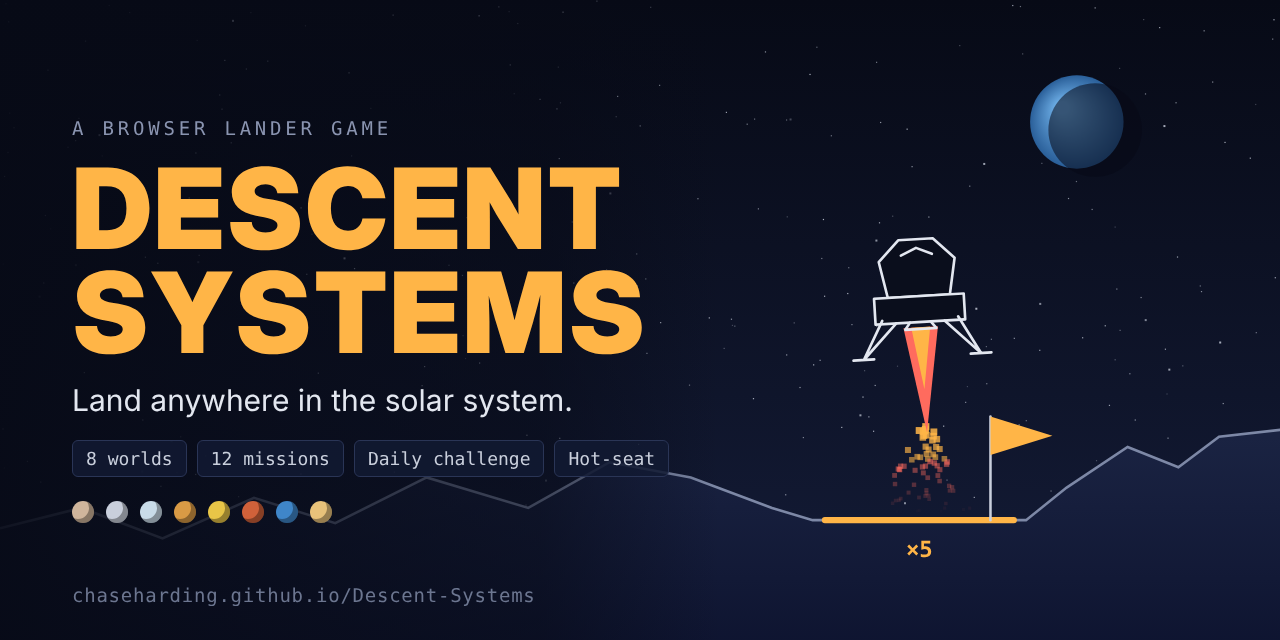
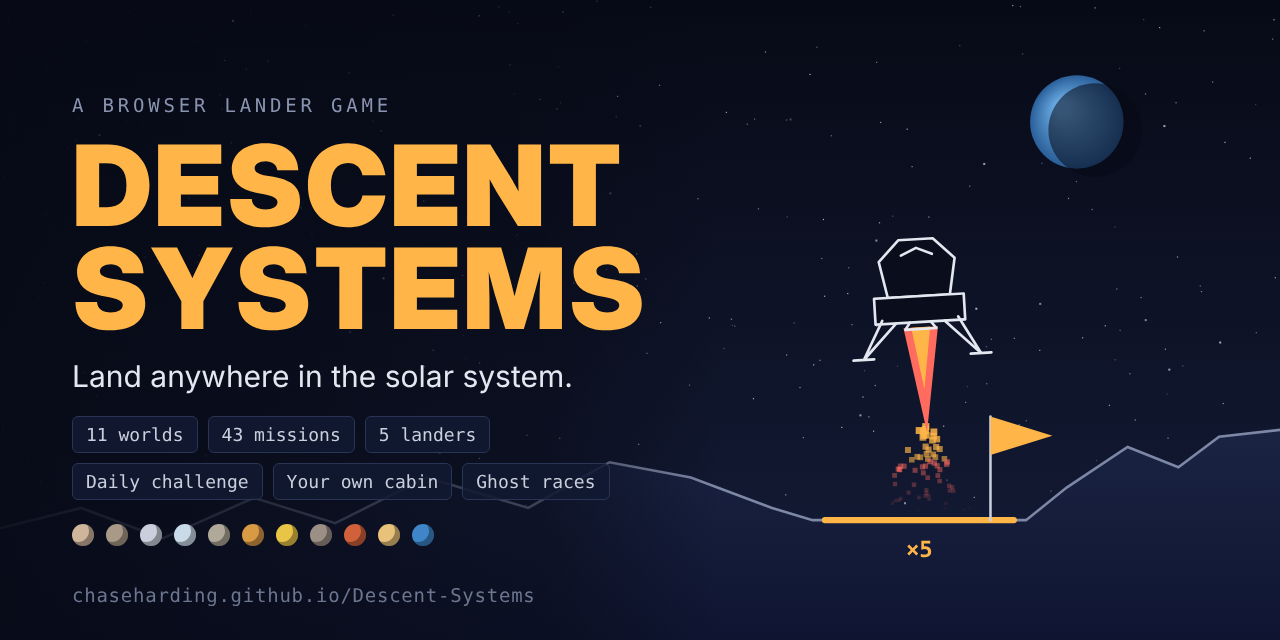
updated readme

Changed region(s): [[0.0312, 0.1562, 0.5312, 0.875]]

diff --git a/README.md b/README.md
@@ -20,8 +20,8 @@ The whole game is a single `index.html` file: plain HTML, CSS and JavaScript on 
 - **Five landers** that fly differently: Biscuit the all-rounder, Rex's fast and thirsty Apex Vector, Wren's slow, steady Lark, Dottie's Workhorse cargo hauler and Whisker, the twitchy little lander Gus built for Apogee. Each keeps its own paint, flame and flag
 - **Credits and a hangar** where you spend your banked points on hull finishes and engine flames
 - **Gus's workshop**: upgrades for a bigger fuel tank, a more efficient engine, softer landing struts and a landing radar that shows where you'll touch down
-- **Mission campaign**: 18 hand-built missions in two acts, with precision landings, cargo runs, canyon flying and rescues, each rated 1–3 stars, plus a story told over the radio by a small pixel-art cast
-- **Side missions**: thirteen optional jobs from the crew, each with its own twist: fragile cargo, a coffee countdown, a cat passenger, a survey route through the clouds of Venus, melting ice cream on Mercury, skipping across an asteroid, a blind landing in a magnetic storm, landing on a moving rover, flying a telescope on a swinging cable, landing through a meteor shower, a pad-hopping race against a rival, aurora photography and shadow hopping on Mercury
+- **Mission campaign**: 26 hand-built missions in three acts, with precision landings, cargo runs, canyon flying and rescues, each rated 1–3 stars, plus a story told over the radio by a small pixel-art cast
+- **Side missions**: seventeen optional jobs from the crew, each with its own twist: fragile cargo, a coffee countdown, a cat passenger, a survey route through the clouds of Venus, melting ice cream on Mercury, skipping across an asteroid, a blind landing in a magnetic storm, landing on a moving rover, flying a telescope on a swinging cable, landing through a meteor shower, a pad-hopping race against a rival, aurora photography and shadow hopping on Mercury
 - **Break room**: hang out with the crew between flights. They chat about how your career is going, and Apogee the cat naps somewhere new every visit. It also holds a bulletin board, a postcard album and Biscuit's maintenance log
 - **The Pad**: your own cozy spaceship cabin. Tap any spot in the room to decorate it with posters, shelf trinkets, desk gadgets, rugs, bedding, wall finishes, flooring, glowing light strips and the view out the big window
 - **Endless run**: one lander, random worlds, fuel that carries over, and a perk from Gus after every landing
@@ -32,7 +32,7 @@ The whole game is a single `index.html` file: plain HTML, CSS and JavaScript on 
 - **Generated music**: slow, drifting pads on the menus, a cozy swung track in the break room, and flight music that speeds up and builds as you get closer to the ground. It's all composed in code as you play
 - **Daily challenge**: the same world and terrain for every pilot each day, with a shareable result
 - **Crew requests**: three small jobs from the crew every day, like soft landings, ×5 pads, rovers or petting Apogee, each paying credits, with a bonus for finishing all three
-- **35 badges** to earn, 26 of which unlock exclusive cosmetics
+- **36 badges** to earn, 27 of which unlock exclusive cosmetics
 - **Pause** with P or Esc, and automatic pausing when you switch tabs
 - **Touch controls** on phones and tablets
 - **Saved progress** for best scores, credits and unlocks, kept in your browser
@@ -169,7 +169,7 @@ Badge rewards (Grand Tour, Champion, Pathfinder, Spa Day, Wren's Original and mo
 
 ## Missions
 
-Open **Missions** from the start screen. The campaign has 18 hand-built missions in two acts, and finishing one unlocks the next. Act 2 opens once you finish Last Light.
+Open **Missions** from the start screen. The campaign has 26 hand-built missions in three acts, and finishing one unlocks the next. Act 2 opens once you finish Last Light, and Act 3 once you finish Sunrise.
 
 **Act 1 · The Signal**
 
@@ -199,16 +199,29 @@ Open **Missions** from the start screen. The campaign has 18 hand-built missions
 | 17 | Spare Key | Mercury | Precision |
 | 18 | Sunrise | Mercury | Rescue, against the clock |
 
+**Act 3 · Beyond Pluto**
+
+| # | Mission | World | Type |
+|---|---|---|---|
+| 19 | Big Ear | Pluto | Sling load |
+| 20 | Triangulation | Moon | Pad hopping |
+| 21 | Echo | Europa | Precision, through a geyser field |
+| 22 | Interference | Io | Cargo, between lava eruptions |
+| 23 | Cloud Relay | Venus | Relay route through the clouds |
+| 24 | Old Station | Titan | Canyon |
+| 25 | Rex's Shortcut | Vesta | Rescue |
+| 26 | Unit Zero | Pluto | Canyon (finale) |
+
 - **Precision:** land on the marked pad, LZ.
 - **Cargo:** land on PICKUP and hold still while the crate loads, then fly it to DROP. The crate makes the lander heavier and slower to turn.
 - **Canyon:** fly beneath rock overhangs to reach the pad. Touching the rock overhead is a crash.
 - **Rescue:** land on CREW and hold still while they board, then climb out of the top of the screen to reach orbit.
-- **Pad hopping** (side missions): touch down safely on numbered pads in order.
-- **Sling load** (side missions): the cargo hangs on a cable below the lander and swings with momentum, and its pull tugs the lander around. Don't drag it into the ground, and lower it gently onto DROP. While it's hanging, the altitude readout shows the load's height.
+- **Pad hopping:** touch down safely on numbered pads in order.
+- **Sling load:** the cargo hangs on a cable below the lander and swings with momentum, and its pull tugs the lander around. Don't drag it into the ground, and lower it gently onto DROP. While it's hanging, the altitude readout shows the load's height.
 
 <p align="center"><img src="media/missions.png" alt="The mission select screen: twelve campaign missions with their star ratings, and a row of side missions from the crew, each tile showing the crew member who gave it" width="560"></p>
 
-The campaign tells a story over the radio. You fly for Descent Systems, the smallest landing agency in the solar system, alongside Flight Director Dottie Reyes and engineer Gus, who named the lander Biscuit. In Act 1, a mysterious signal on Biscuit's old call sign leads from the Moon across Titan and Mars to Earth. In Act 2, the newly funded agency takes on its first real contracts on Vesta, Ganymede and Mercury, crosses paths with Rex Valor, a smug rival pilot from Apex Aerospace, and races a Mercury sunrise to rescue one of its own. Each character has a pixel-art portrait that talks as their lines type out. Short radio scenes play before each mission (replay them anytime with **Radio log**), mission control reacts to how you flew, and finishing each act unlocks an epilogue. Story scenes can be turned off in Settings.
+The campaign tells a story over the radio. You fly for Descent Systems, the smallest landing agency in the solar system, alongside Flight Director Dottie Reyes and engineer Gus, who named the lander Biscuit. In Act 1, a mysterious signal on Biscuit's old call sign leads from the Moon across Titan and Mars to Earth. In Act 2, the newly funded agency takes on its first real contracts on Vesta, Ganymede and Mercury, crosses paths with Rex Valor, a smug rival pilot from Apex Aerospace, and races a Mercury sunrise to rescue one of its own. In Act 3, a new signal turns up: four beeps and a pause, from somewhere past Pluto. The crew chase it with a listening dish on Pluto, beacons on the Moon, a hydrophone under Europa's geysers, a noise filter through Io's eruptions, a cloud relay on Venus and Wren's old weather station on Titan, rescue Rex (again) on Vesta, and finally land at the bottom of a canyon on Pluto's far side to find what's been calling. It ends on a cliffhanger, and Act 4 is on its way. Each character has a pixel-art portrait that talks as their lines type out. Short radio scenes play before each mission (replay them anytime with **Radio log**), mission control reacts to how you flew, and finishing each act unlocks an epilogue. Story scenes can be turned off in Settings.
 
 ![Meet the crew: Dottie Reyes, flight director; Gus Tran, engineering; Wren Aldana, founder](media/crew.png)
 
@@ -233,6 +246,10 @@ Below the campaign is a row of optional side missions. Each one is a favor for s
 | Hopscotch | Rex | Vesta | Edge of the World | Pad hopping: touch down on pads 1, 2 and 3 in order, and try to beat Rex's 90 seconds |
 | Northern Lights | Dottie | Ganymede | Relay Run | Photo route: fly through three markers up in the aurora, then land |
 | Shadow Hopper | Wren | Mercury | Spare Key | Pad hopping: hop between three pads in the shadows while the sun boils your fuel |
+| Polka Radio | Gus | Moon | Triangulation | Broadcast route: fly through three markers to switch on Gus's all-polka radio station, then land |
+| Geyser Surfing | Rex | Europa | Echo | Pad hopping between erupting geysers, and try to beat Rex's 75 seconds |
+| Catnip Run | Dottie | Titan | Old Station | Fragile cargo: Titan catnip for Apogee. Touch down slower than 1.3 m/s with it aboard |
+| Meteor Watch | Wren | Mercury | Rex's Shortcut | Meteor shower over Mercury: get to the shade by the LZ while the meteors fall |
 
 Side missions pay their own credits and have their own stars, but they don't count toward the campaign badges.
 
@@ -242,7 +259,7 @@ You can set down safely on any pad and lift off again. Each mission awards up to
 
 ## Badges
 
-Open **Badges** from the start screen to see your progress. Twenty-six badges unlock exclusive cosmetics that can't be bought:
+Open **Badges** from the start screen to see your progress. Twenty-seven badges unlock exclusive cosmetics that can't be bought:
 
 | Badge | How to earn it | Reward |
 |---|---|---|
@@ -265,6 +282,7 @@ Open **Badges** from the start screen to see your progress. Twenty-six badges un
 | Star collector | Earn 24 mission stars | Comet Tail flame |
 | Flawless | Earn all 36 stars in Act 1 | Mission Patch flag |
 | Frontier hero | Finish Act 2: New Frontiers | Apex Gold hull |
+| Signal chaser | Finish Act 3: Beyond Pluto | Unit Zero hull |
 | Beat Rex | Finish Hopscotch faster than Rex's 90 seconds | Rex's Racing Flag |
 | Spa treatment | Deliver Biscuit's spa crate without a crack | Spa Day hull |
 | Barista | Finish The Coffee Crisis with 15 seconds to spare | Espresso flame |
